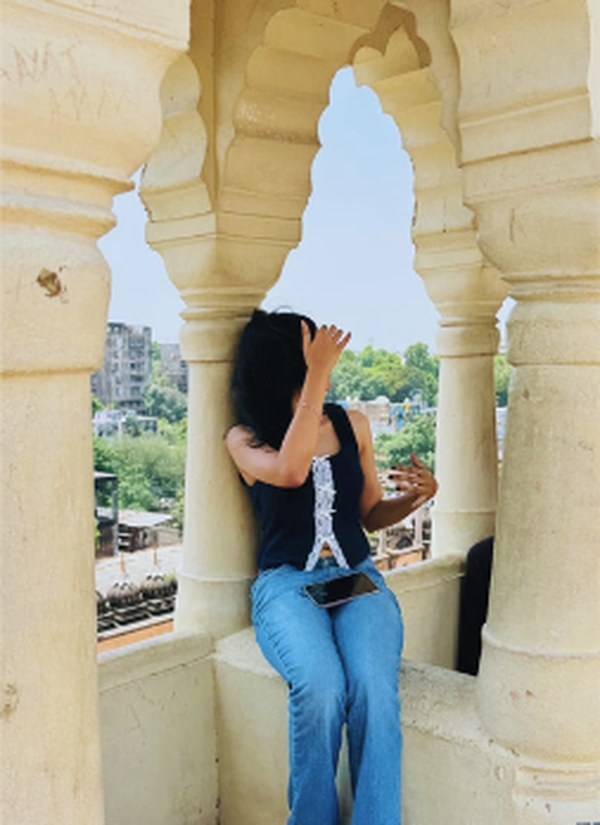
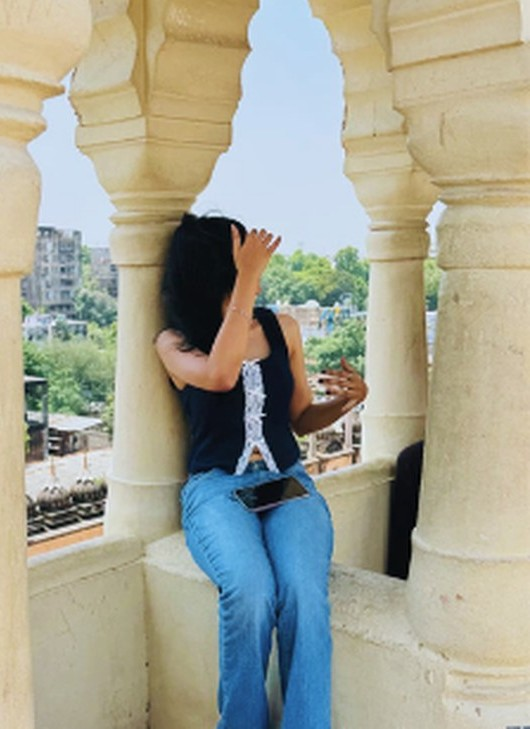
chore: drop the headset photo, recentre the window shot, new closing line
removing the headset let the packer settle the columns to a 4.3% height
spread, down from 9.8%.

the window photo had its subject sitting right of frame, recropped to
centre her while keeping the tile shape the packer expects.

footer closes on exploring cool things.

diff --git a/src/data/gallery.ts b/src/data/gallery.ts
@@ -16,5 +16,4 @@ export const galleryItems: GalleryItem[] = [
   { src: '/gallery/sleepy-dog.jpg', ratio: 0.7024, caption: 'sleepy dog, pencil.' },
   { src: '/gallery/sparkler.jpg', ratio: 0.7255, caption: 'long exposure, short attention span.' },
   { src: '/gallery/mindscape.jpg', ratio: 1.0891, caption: 'mindscape, scratchboard.' },
-  { src: '/gallery/headset.jpg', ratio: 1.0417, caption: 'headset, charged and waiting.' },
 ];

diff --git a/src/components/site/SiteFooter.tsx b/src/components/site/SiteFooter.tsx
@@ -64,9 +64,7 @@ export const SiteFooter: React.FC = () => (
     </a>
 
     <p className="mt-6 text-[28px] font-medium leading-[1.1] tracking-[-0.03em] text-ink sm:text-[38px]">
-      ninety frames a second,
-      <br />
-      or it doesn&rsquo;t ship.
+      exploring cool things
     </p>
   </footer>
 );
